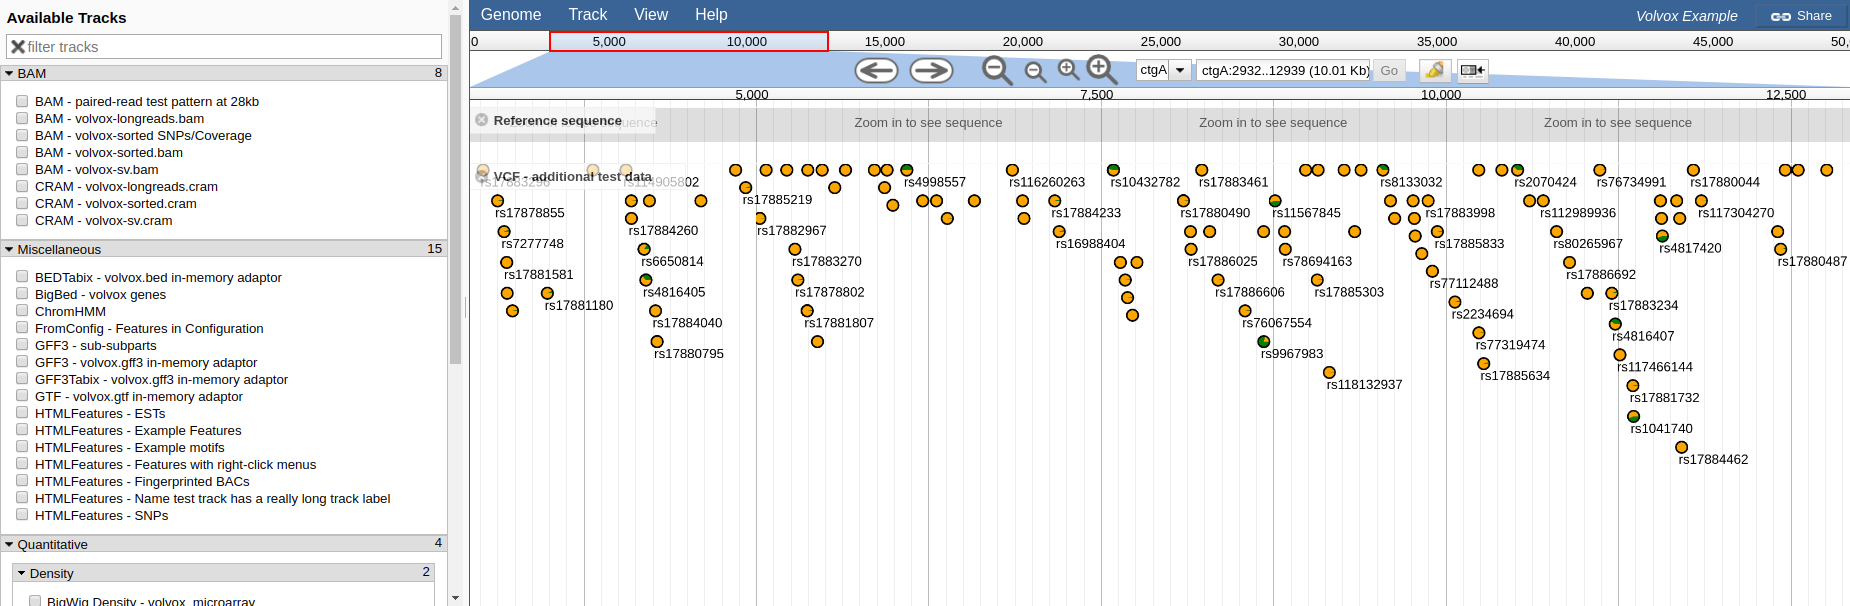
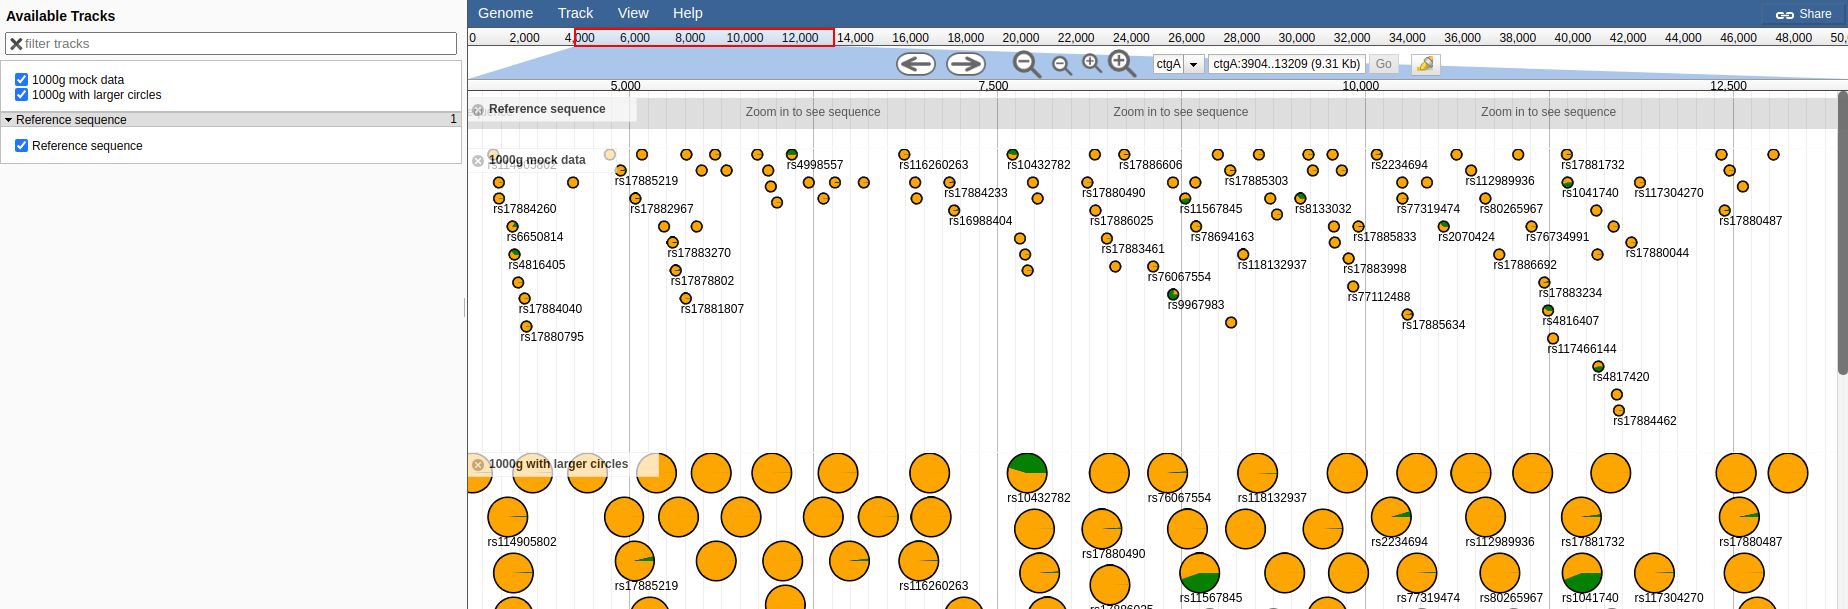
Add more examples

Changed region(s): [[0.0, 0.0, 1.0, 1.0], [0.7094, 0.5941, 0.7711, 0.6535]]

diff --git a/js/View/FeatureGlyph/Pie.js b/js/View/FeatureGlyph/Pie.js
@@ -28,6 +28,11 @@ function (
                 });
         },
 
+        _expandRectangleWithLabels: function (viewInfo, feature, fRect) {
+            var height = this._getFeatureHeight(viewInfo, feature);
+            fRect.w += height;
+            this.inherited(arguments);
+        },
         // similar to code in _VariantDetailMixin in jbrowse core
         calculateGenotypeFrequencies: function (genotypes, alt) {
             var counts = new NestedFrequencyTable();
@@ -76,7 +81,7 @@ function (
 
             context.clearRect(left, top, Math.max(1, width), height);
             height = height / 2;
-            let middleX = left + height / 2;
+            let middleX = left + height;
             let middleY = top + height;
 
             // background

diff --git a/README.md b/README.md
@@ -12,6 +12,9 @@ Showing 1000 genomes psuedo data variant and non-variant frequencies
 
 ## Example config
 
+
+### Pie glyph (calculates from hom/het from genotypes)
+
 This shows allele frequencies calculated from multi-sample VCF
 
     {
@@ -32,7 +35,7 @@ In tracks.conf format
     glyph=PiechartPlugin/View/FeatureGlyph/Pie
 
 
-## Example config for PieAF
+### PieAF glyph (calculates from the AF INFO tag)
 
 This shows allele-frequency calculated from just using the AF tag in the info field
 
@@ -45,9 +48,13 @@ This shows allele-frequency calculated from just using the AF tag in the info fi
 The style.variantColor is optional, a default set of grey,blue,red,green
 
 
-## Known issues
+## Configuration
 
-The circular glyph is not given enough proper space to render so features can overlap slightly and the block boundaries can cause issues
+
+- glyph - can be PiechartPlugin/View/FeatureGlyph/PieAF or PiechartPlugin/View/FeatureGlyph/Pie
+- style.height - changes diameter of the drawn circle
+- style.variantColor - with PieAF glyph, this is a comma separated list. With Pie glyph it is the alt allele
+- style.nonvariantColor - the Pie glyph this is the ref allele
 
 ## Test data
 
